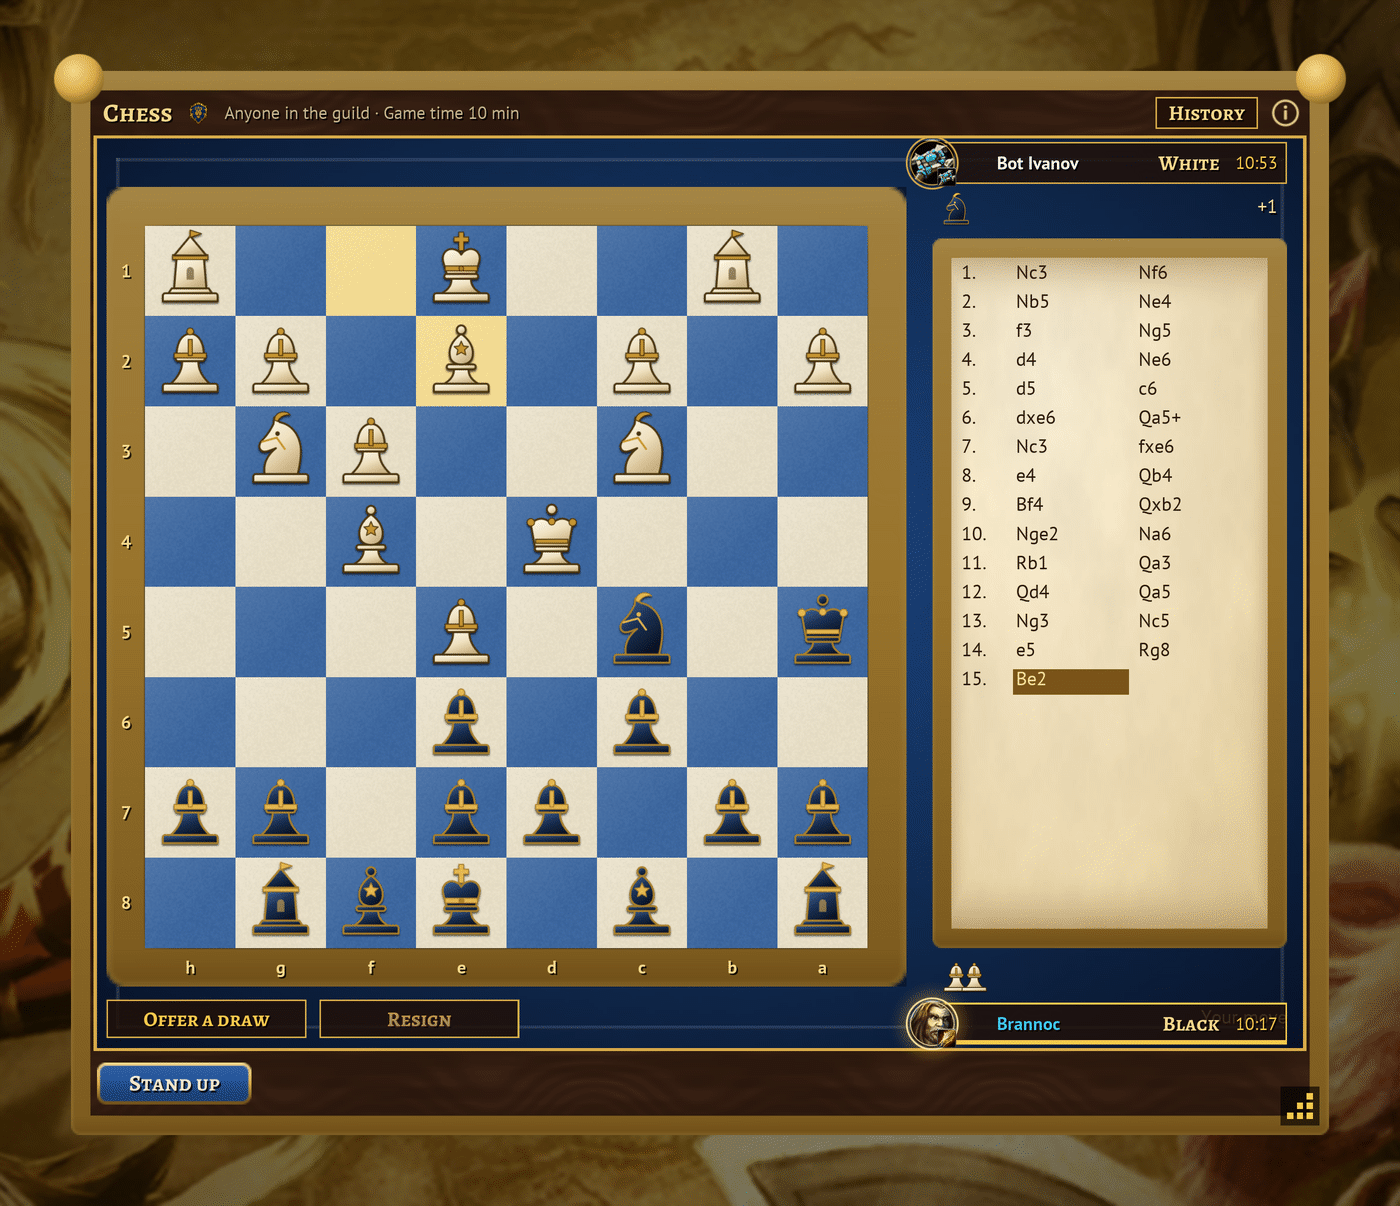
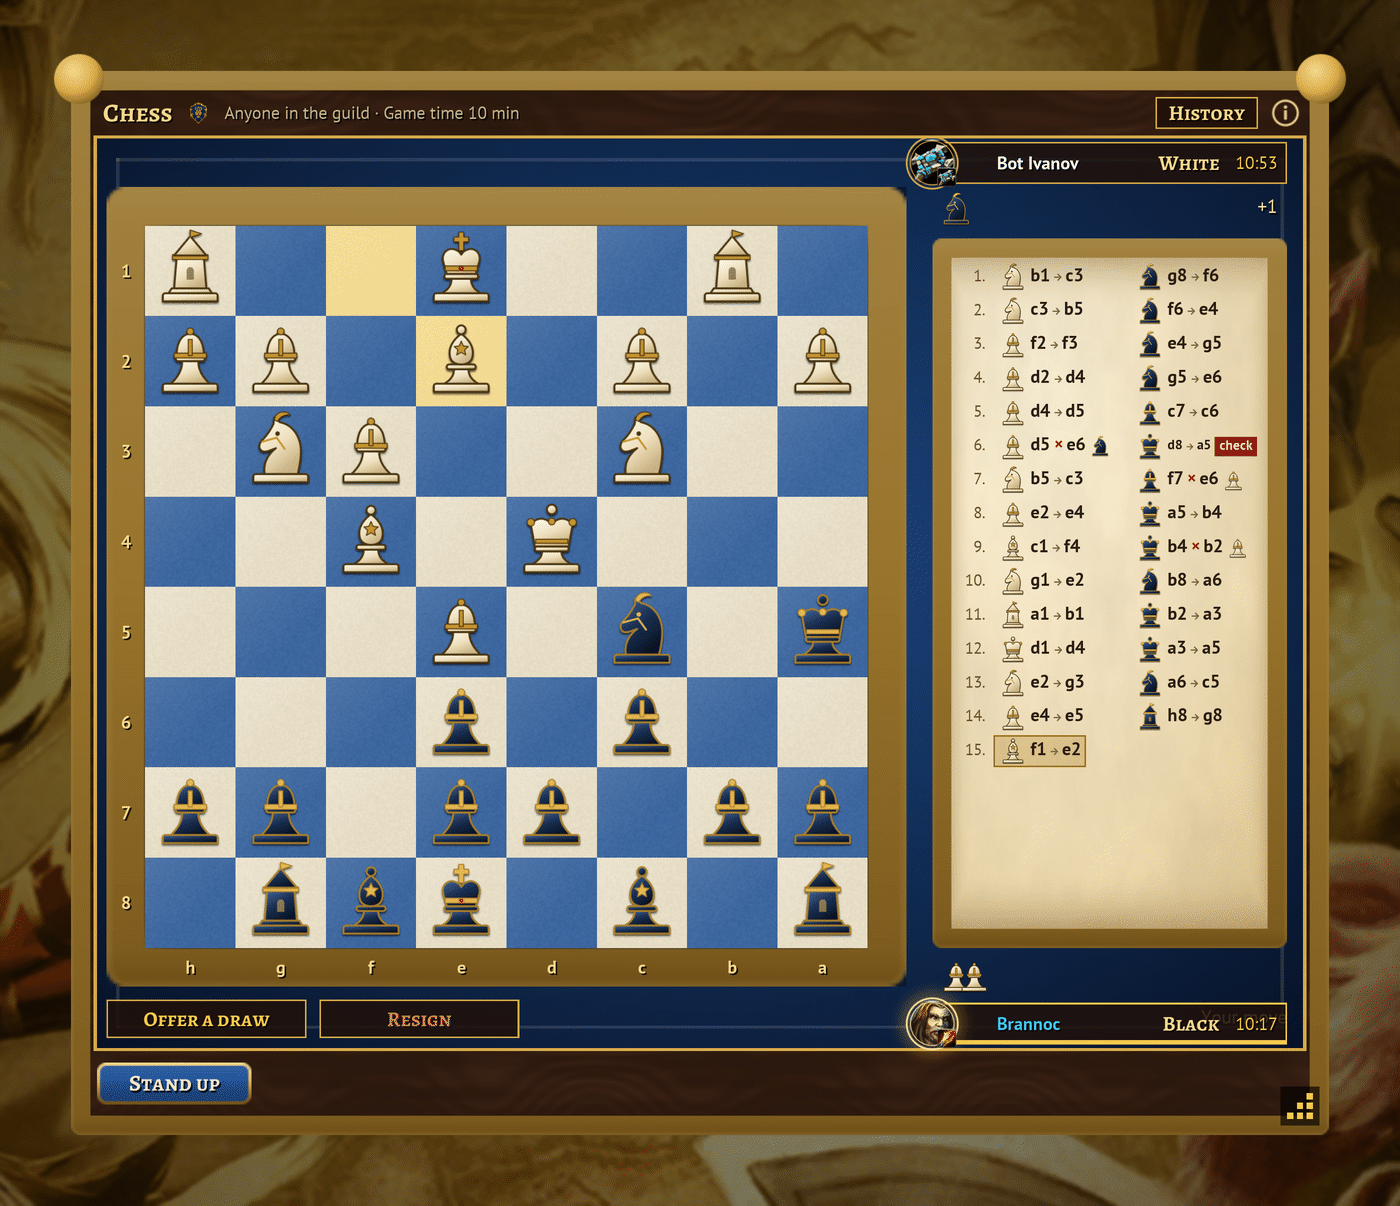
docs(shots): history scenes for checking the window; holdem and chess pictures with the new lists
history_belot, history_long, history_santase and history_chess draw the
„История“ window beside a table (made only when named). holdem.png shows the
wider window with its rows, chess.png the move list as icons and squares.

diff --git a/tools/shots/README.md b/tools/shots/README.md
@@ -9,6 +9,8 @@ luajit tools/shots/scenes.lua && python tools/shots/render.py
 
 Run it from the repo root. You can also name scenes, for example `luajit tools/shots/scenes.lua hall belot` followed by
 `python tools/shots/render.py hall belot`. It needs LuaJIT, and Python with Pillow and numpy.
+The scenes `history_belot`, `history_long` (the longest names), `history_santase` and `history_chess` show the „История“
+window open beside a table, to check it against mockup 10; they are made only when named and are not README pictures.
 
 ## How it works
 
